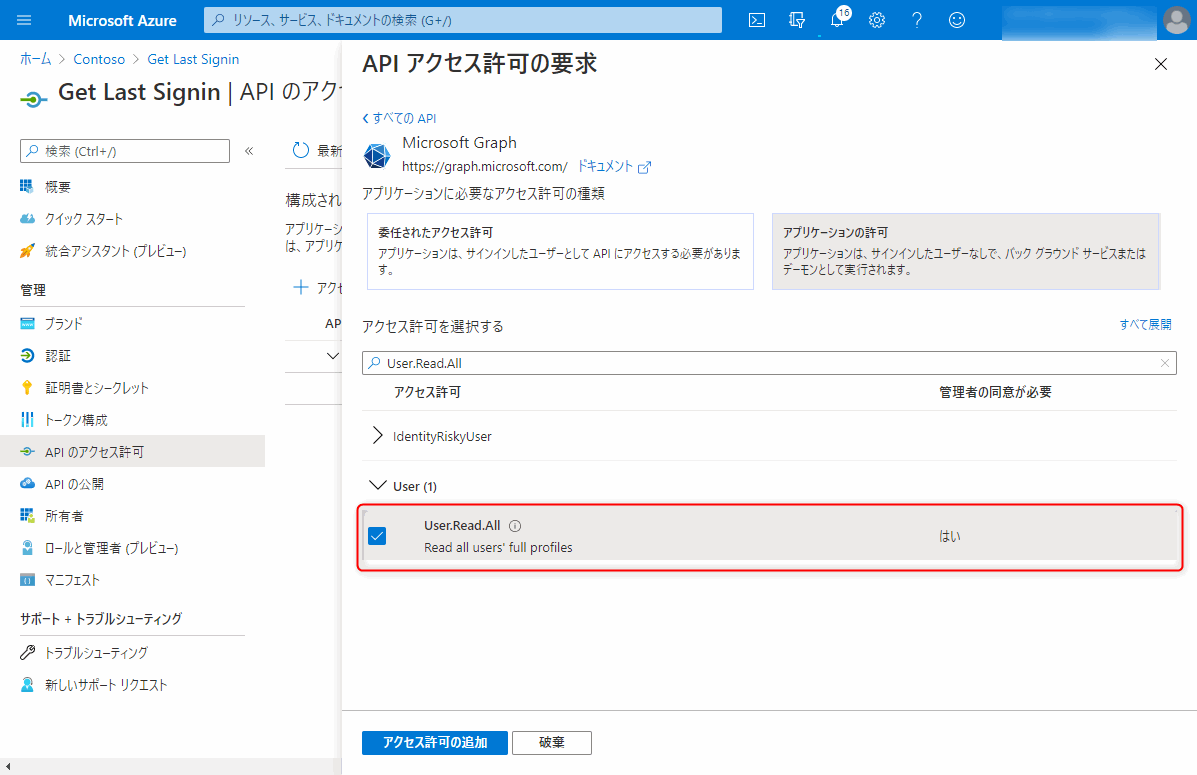
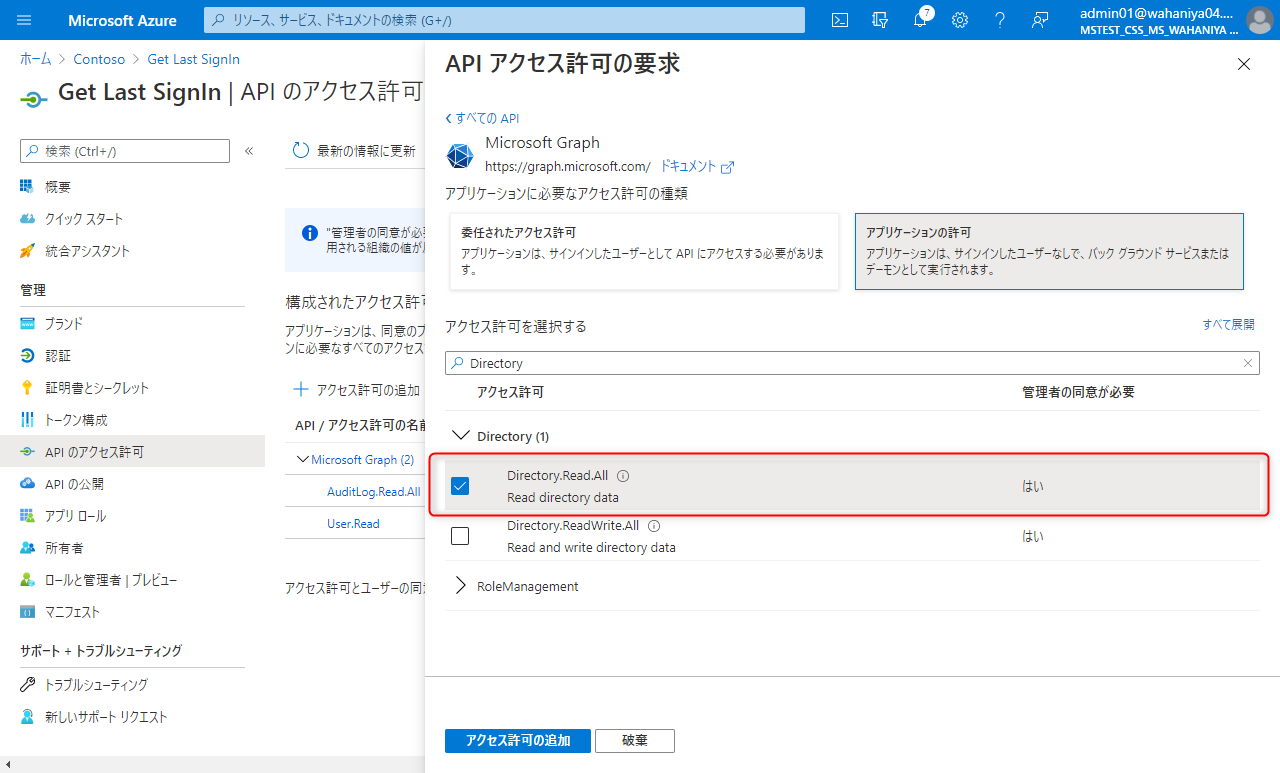
Change required permissions

diff --git a/README.md b/README.md
@@ -73,7 +73,7 @@ Azure AD 上にアプリケーションを準備します。
 
 ![](./img/05_add_permissions.png)
 
-- "User.Read.All" のチェックを有効にします。
+- "Directory.Read.All" のチェックを有効にします。
 
 ![](./img/06_add_permissions.png)
 
